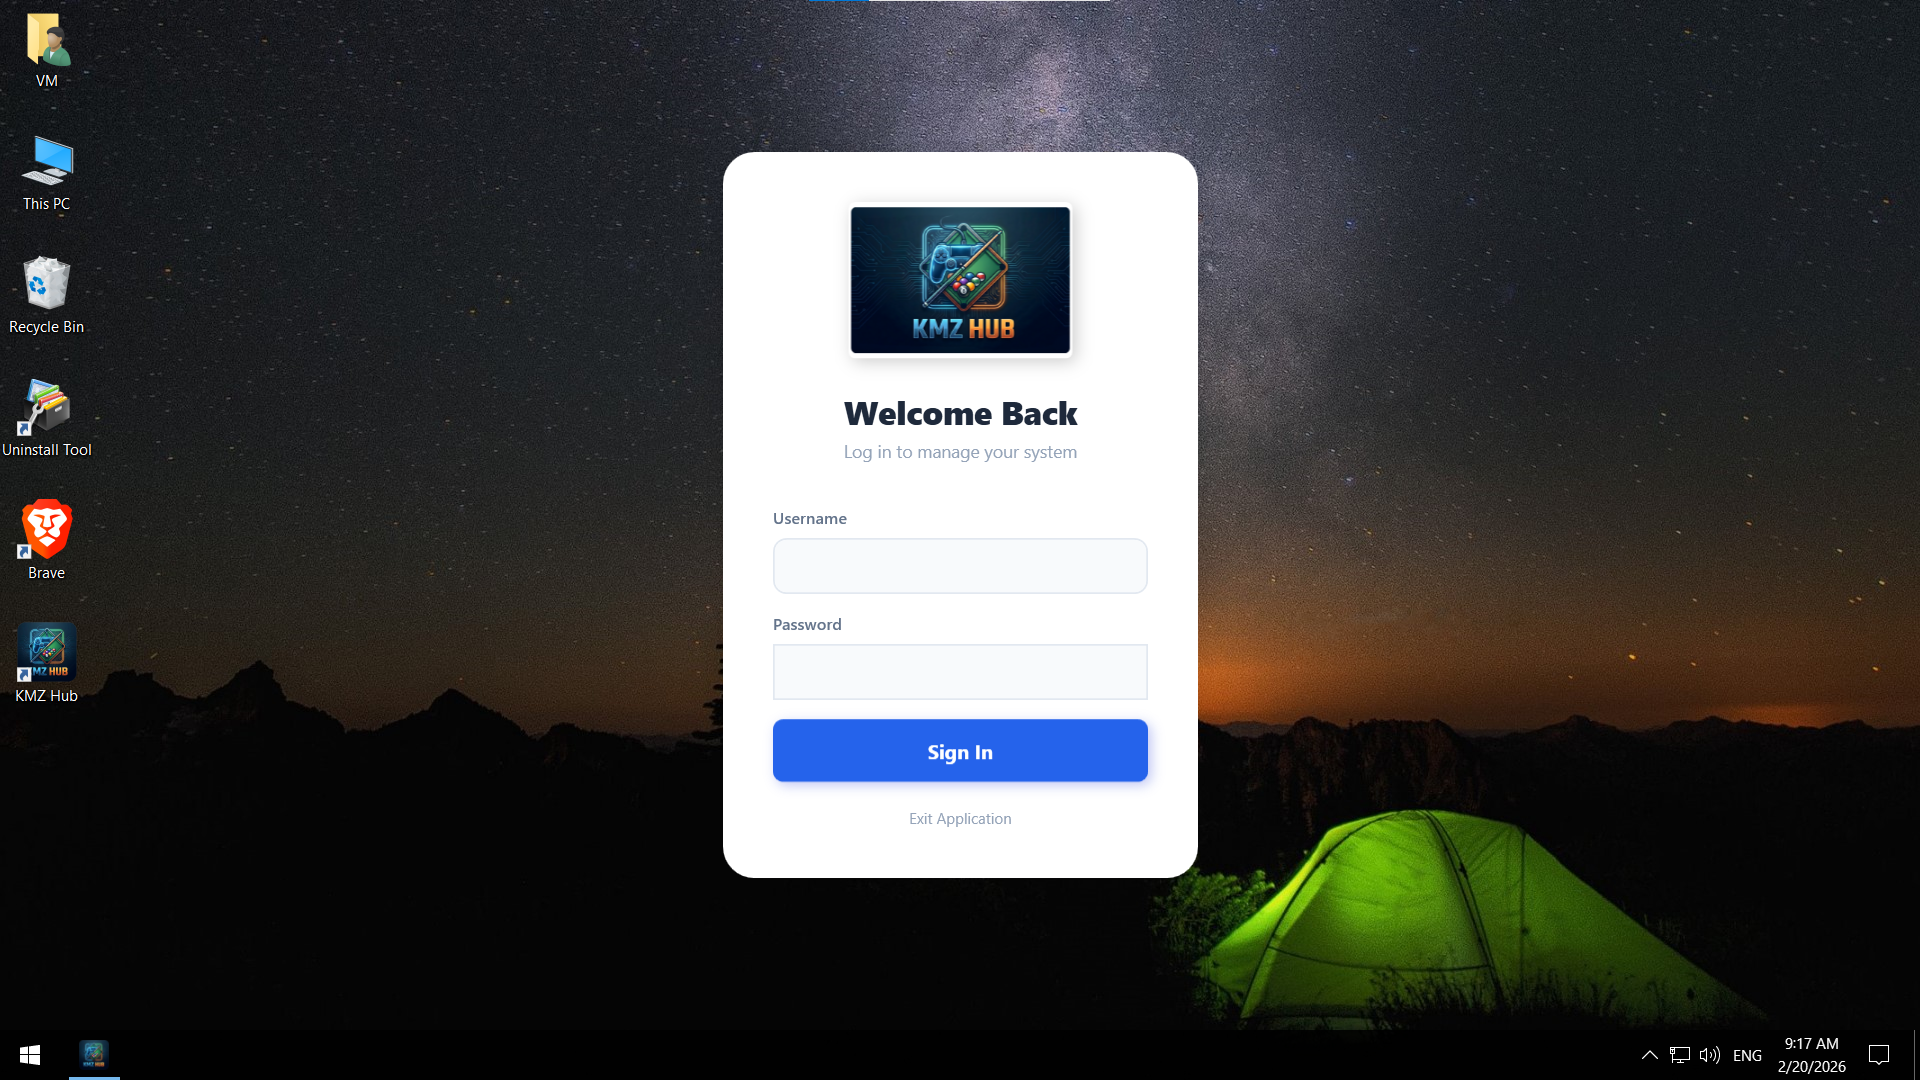
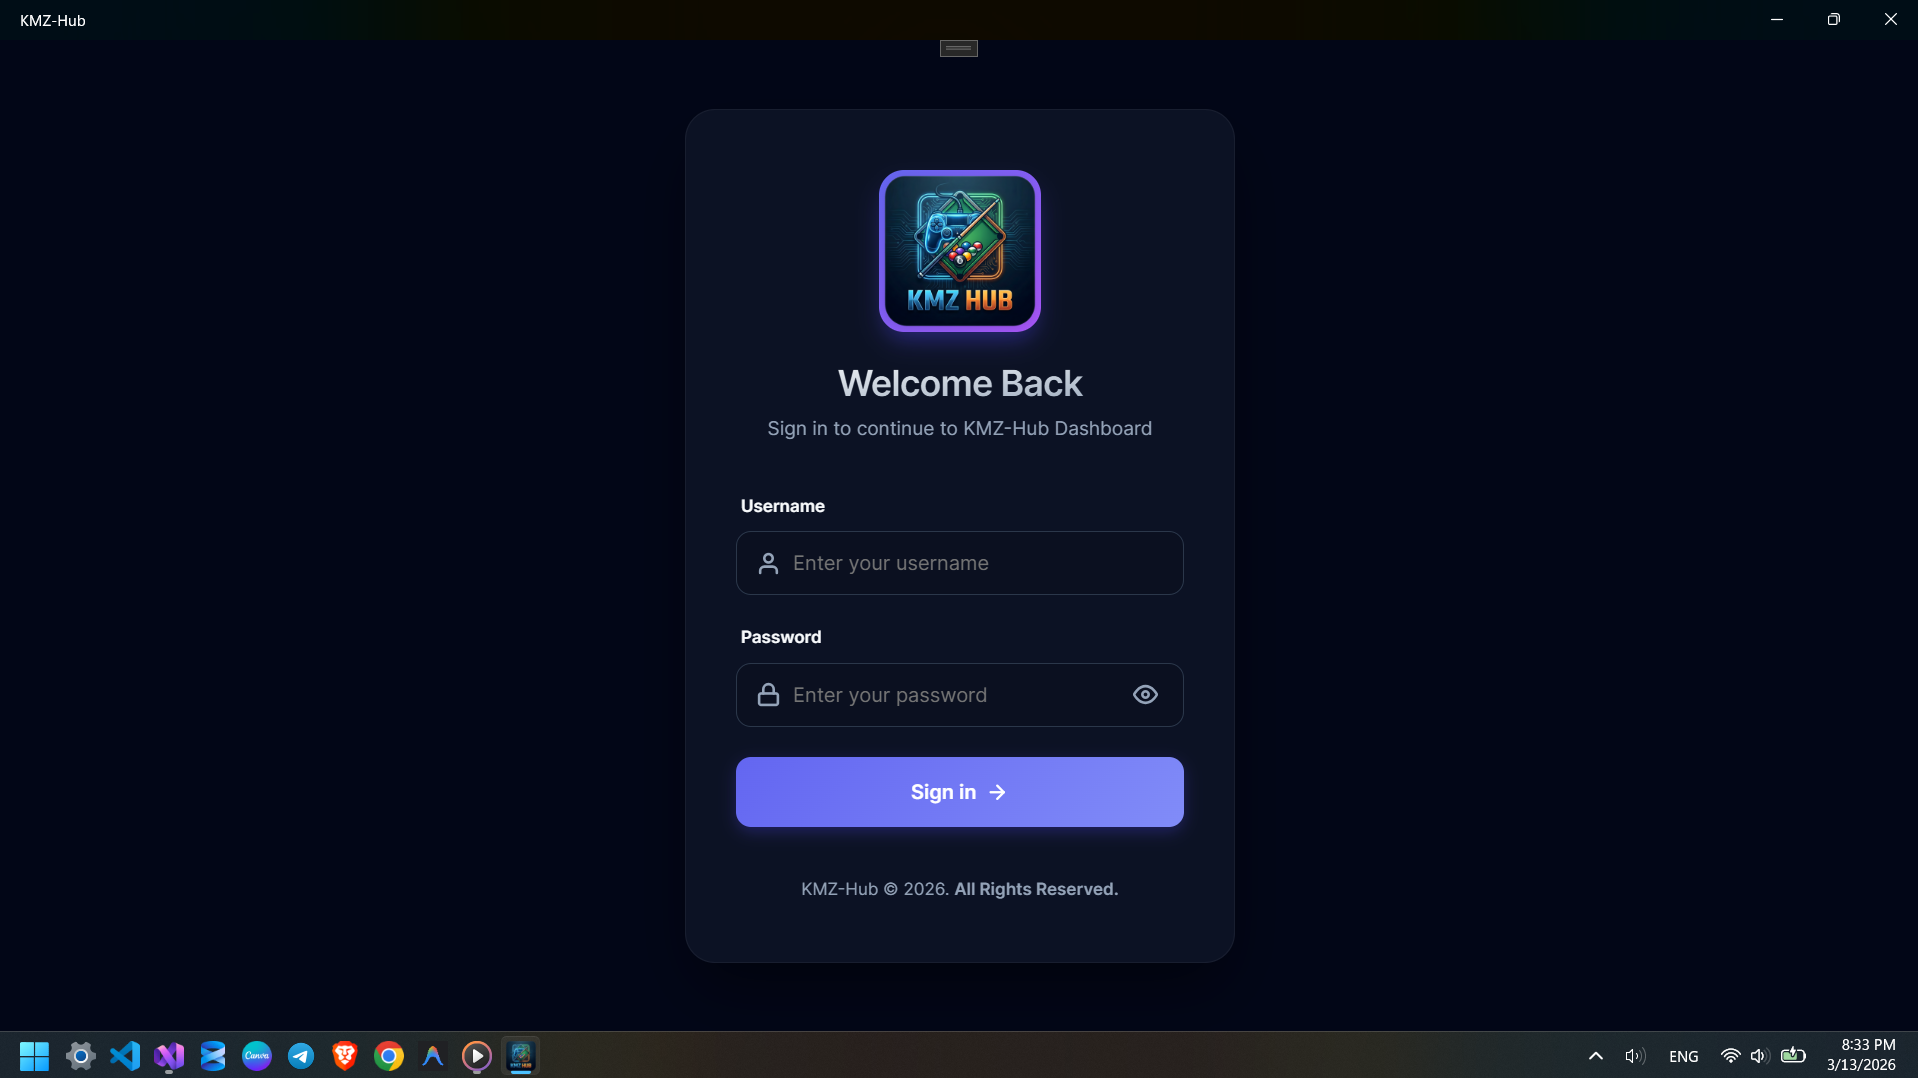
MAUI Project

diff --git a/Projects/KMZHub.html b/Projects/KMZHub.html
@@ -77,87 +77,119 @@
             </div>
             <div>
                 <h4>User Management</h4>
-                <img src="../Materials/KMZ Hub/Users.png" alt="Users Management" loading="lazy">
+                <img src="../Materials/KMZ Hub/Users-List.png" alt="Users Management" loading="lazy">
             </div>
             <div>
-                <h4>Add New User</h4>
-                <img src="../Materials/KMZ Hub/Add User.png" alt="Add User" loading="lazy">
+                <h4>Users Details</h4>
+                <img src="../Materials/KMZ Hub/User-Details.png" alt="Add User" loading="lazy">
+            </div>
+            <div>
+                <h4>Customers</h4>
+                <img src="../Materials/KMZ Hub/Customers-List.png" alt="Customers" loading="lazy">
+            </div>
+            <div>
+                <h4>Customer Details</h4>
+                <img src="../Materials/KMZ Hub/Customer-Details.png" alt="Customer Details" loading="lazy">
             </div>
             <div>
                 <h4>Rooms Management</h4>
-                <img src="../Materials/KMZ Hub/Rooms.png" alt="Rooms Page" loading="lazy">
+                <img src="../Materials/KMZ Hub/Rooms-List.png" alt="Rooms Page" loading="lazy">
             </div>
             <div>
                 <h4>Create New Room</h4>
-                <img src="../Materials/KMZ Hub/Create Room.png" alt="Create Room" loading="lazy">
+                <img src="../Materials/KMZ Hub/Create-Room.png" alt="Create Room" loading="lazy">
             </div>
             <div>
-                <h4>Add New Device</h4>
-                <img src="../Materials/KMZ Hub/Add device.png" alt="Add device" loading="lazy">
+                <h4>Room Details</h4>
+                <img src="../Materials/KMZ Hub/Room-Details.png" alt="Room Details" loading="lazy">
             </div>
             <div>
-                <h4>Food & Drink</h4>
-                <img src="../Materials/KMZ Hub/Food and Drink.png" alt="Food and Drink" loading="lazy">
+                <h4>Devices</h4>
+                <img src="../Materials/KMZ Hub/Devices.png" alt="Devices" loading="lazy">
             </div>
             <div>
-                <h4>Add Food or Drink</h4>
-                <img src="../Materials/KMZ Hub/Add food or drink.png" alt="Add food or drink" loading="lazy">
+                <h4>Products</h4>
+                <img src="../Materials/KMZ Hub/Products-List.png" alt="Products" loading="lazy">
+            </div>
+            <div>
+                <h4>Add Product</h4>
+                <img src="../Materials/KMZ Hub/Create-Product.png" alt="Create Product" loading="lazy">
             </div>
             <div>
                 <h4>Direct Sales (POS)</h4>
-                <img src="../Materials/KMZ Hub/Direct sale.png" alt="Direct sale Page" loading="lazy">
+                <img src="../Materials/KMZ Hub/POS-1.png" alt="Direct sale Page" loading="lazy">
             </div>
             <div>
-                <h4>Sales Receipt</h4>
-                <img src="../Materials/KMZ Hub/Recipt DS.png" alt="Sales Receipt" loading="lazy">
+                <h4>Direct Sales (POS)</h4>
+                <img src="../Materials/KMZ Hub/POS-2.png" alt="Direct sale Page" loading="lazy">
+            </div>
+            <div>
+                <h4>Direct Sales (POS) Details</h4>
+                <img src="../Materials/KMZ Hub/POS-Details.png" alt="Direct sale Details" loading="lazy">
+            </div>
+            <div>
+                <h4>Direct Sales (POS) Receipt</h4>
+                <img src="../Materials/KMZ Hub/POS-Resipt.png" alt="Direct sale Receipt" loading="lazy">
             </div>
             <div>
                 <h4>Sessions Management</h4>
-                <img src="../Materials/KMZ Hub/Sessions.png" alt="Sessions Page" loading="lazy">
+                <img src="../Materials/KMZ Hub/Sessions-List.png" alt="Sessions Page" loading="lazy">
             </div>
             <div>
                 <h4>Start Session</h4>
-                <img src="../Materials/KMZ Hub/Start session.png" alt="Start session" loading="lazy">
+                <img src="../Materials/KMZ Hub/Start-Session.png" alt="Start session" loading="lazy">
             </div>
             <div>
                 <h4>Running Session</h4>
-                <img src="../Materials/KMZ Hub/Running session.png" alt="Running session" loading="lazy">
+                <img src="../Materials/KMZ Hub/Session-Details-1.png" alt="Running session" loading="lazy">
             </div>
             <div>
-                <h4>Multi-Session View</h4>
-                <img src="../Materials/KMZ Hub/Running session 2.png" alt="Multi-Session View" loading="lazy">
+                <h4>Running Session</h4>
+                <img src="../Materials/KMZ Hub/Session-Details-2.png" alt="Running session" loading="lazy">
             </div>
             <div>
-                <h4>Closing Session</h4>
-                <img src="../Materials/KMZ Hub/Closeing session.png" alt="Closing session" loading="lazy">
+                <h4>Closed Session</h4>
+                <img src="../Materials/KMZ Hub/Closed-Session.png" alt="Closed session" loading="lazy">
             </div>
             <div>
-                <h4>Session Detailed Report</h4>
-                <img src="../Materials/KMZ Hub/Session report.png" alt="Session report" loading="lazy">
+                <h4>Session Receipt</h4>
+                <img src="../Materials/KMZ Hub/Session-Resipt.png" alt="Session Receipt" loading="lazy">
             </div>
             <div>
-                <h4>General Reports</h4>
-                <img src="../Materials/KMZ Hub/General report.png" alt="General report Page" loading="lazy">
+                <h4>Open Shift</h4>
+                <img src="../Materials/KMZ Hub/Open-Shift.png" alt="Open Shift" loading="lazy">
             </div>
             <div>
-                <h4>Shift Management</h4>
-                <img src="../Materials/KMZ Hub/Shift mangment.png" alt="Shift Management Page" loading="lazy">
-            </div>
-            <div>
-                <h4>Advanced Shift Management</h4>
-                <img src="../Materials/KMZ Hub/Shift mangment 2.png" alt="Advanced Shift Management" loading="lazy">
+                <h4>Shift Control</h4>
+                <img src="../Materials/KMZ Hub/Shift-Control.png" alt="Shift Control" loading="lazy">
             </div>
             <div>
                 <h4>Close Shift</h4>
-                <img src="../Materials/KMZ Hub/close shift.png" alt="Close Shift" loading="lazy">
+                <img src="../Materials/KMZ Hub/Close-Shift-Review.png" alt="Close Shift" loading="lazy">
             </div>
             <div>
-                <h4>Shift History</h4>
-                <img src="../Materials/KMZ Hub/Shift history.png" alt="Shift History" loading="lazy">
+                <h4>Shift Report (PDF)</h4>
+                <img src="../Materials/KMZ Hub/Shift-Report.png" alt="Shift Report" loading="lazy">
+            </div>
+            <div>
+                <h4>Shifts Reports</h4>
+                <img src="../Materials/KMZ Hub/Shifts-Report.png" alt="Shifts Report" loading="lazy">
+            </div>
+            <div>
+                <h4>General Reports</h4>
+                <img src="../Materials/KMZ Hub/General-Reports.png" alt="General report Page" loading="lazy">
+            </div>
+            <div>
+                <h4>General Reports (PDF)</h4>
+                <img src="../Materials/KMZ Hub/General-Reports-PDF.png" alt="General report Page" loading="lazy">
             </div>
             <div>
                 <h4>Printing Settings</h4>
-                <img src="../Materials/KMZ Hub/Printing setting.png" alt="Printing setting" loading="lazy">
+                <img src="../Materials/KMZ Hub/Printing-Settings.png" alt="Printing setting" loading="lazy">
+            </div>
+            <div>
+                <h4>Recycle Bin</h4>
+                <img src="../Materials/KMZ Hub/Recycle-Bin.png" alt="Recycle Bin" loading="lazy">
             </div>
             <div>
                 <h4>Click To Preview</h4>
@@ -170,20 +202,18 @@
         <h2>Used Technologies & Tools</h2>
         <div class="skills-container">
             <div>
-                <button>XAML</button>
+                <button>MAUI Blazor Hybrid</button>
                 <button>C#</button>
                 <button>ASP.NET Core</button>
-                <button>SQL Server</button>
-                <button>SQL Server Express</button>
-                <button>WPF</button>
-                <button>LINQ</button>
-                <button>ORM</button>
-                <button>Entity Framework</button>
+                <button>SQLite</button>
+                <button>sqlite-net-pcl</button>
+                <button>XAML</button>
+                <button>Entity Framework Core</button>
                 <button>Git</button>
                 <button>GitHub</button>
                 <button>Visual Studio</button>
-                <button>SSMS</button>
                 <button>Inno Setup</button>
+                <button>Advanced Installer</button>
                 <button>icofx3</button>
                 <button>VM Ware</button>
             </div>
